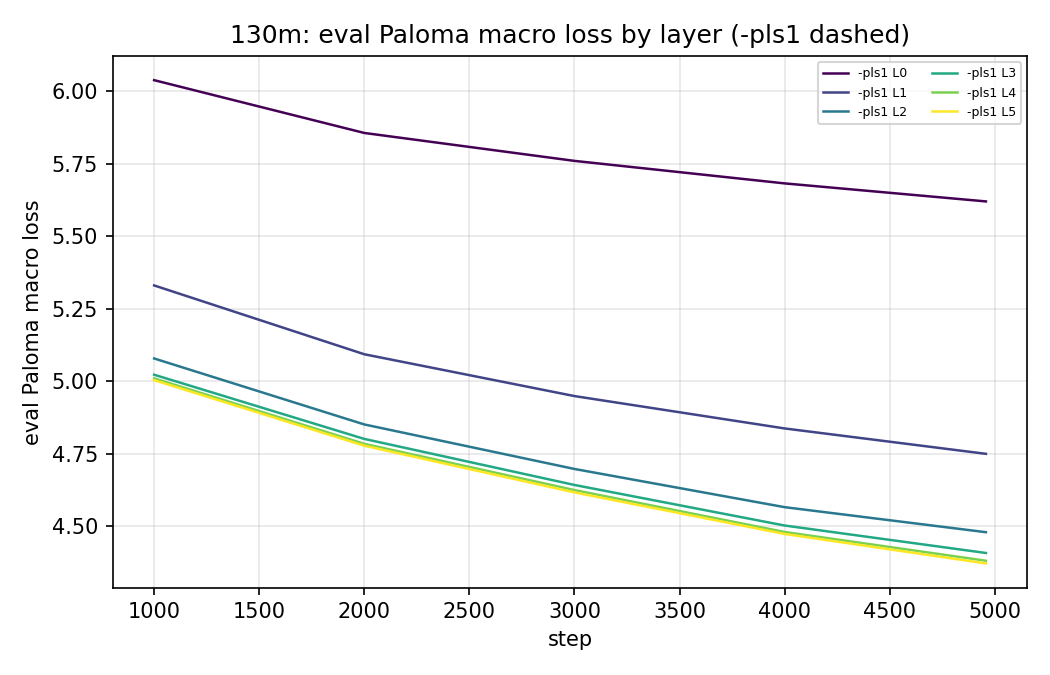
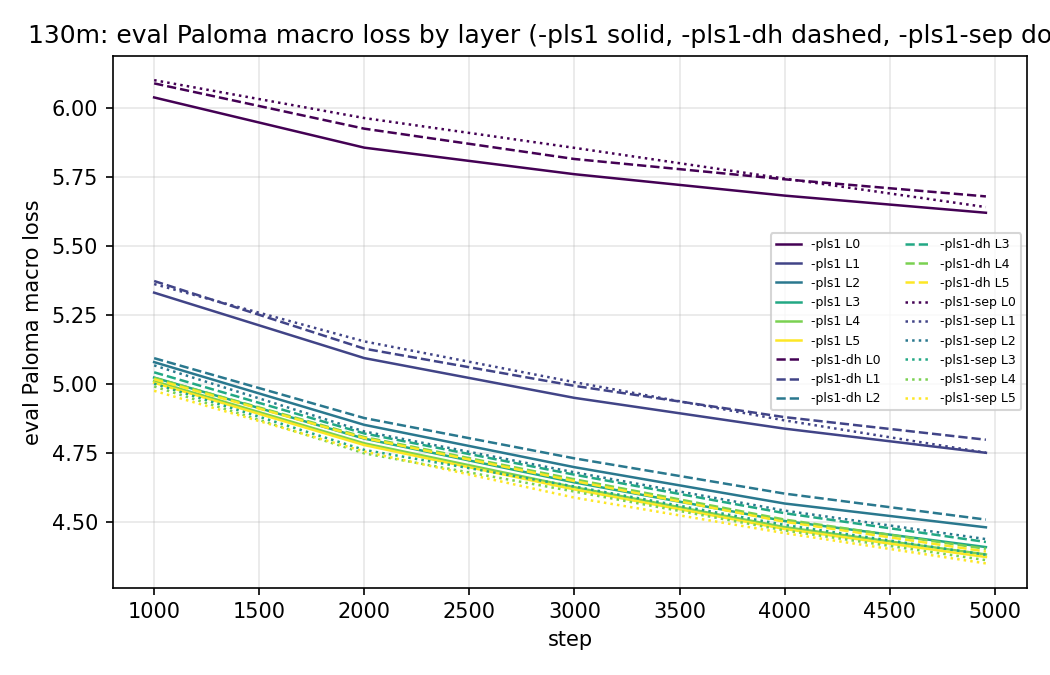
pls: separate-heads result (130m +0.034 bpb vs shared +0.041), per-layer figures for all three arms
Claude-Session: https://claude.ai/code/session_01KxM9p6GN3LaEp4FYv1D79m

diff --git a/scripts/della/pls_report.py b/scripts/della/pls_report.py
@@ -106,7 +106,8 @@ def main():
                     ax.plot(steps, y, style, color=cmap(k / max(L - 1, 1)), lw=1.2, label=f"{sfx} L{k}")
             ax.set_xlabel("step")
             ax.set_ylabel(metric)
-            ax.set_title(f"{a.size}: {metric} by layer ({' solid, '.join(sfxs)} dashed)")
+            styles = ", ".join(f"{sfx} {name}" for sfx, name in zip(sfxs, ("solid", "dashed", "dotted")))
+            ax.set_title(f"{a.size}: {metric} by layer ({styles})")
             ax.grid(alpha=0.3)
             ax.legend(fontsize=6, ncol=2)
             path = os.path.join(a.out, f"{a.size}_{fname}.png")
